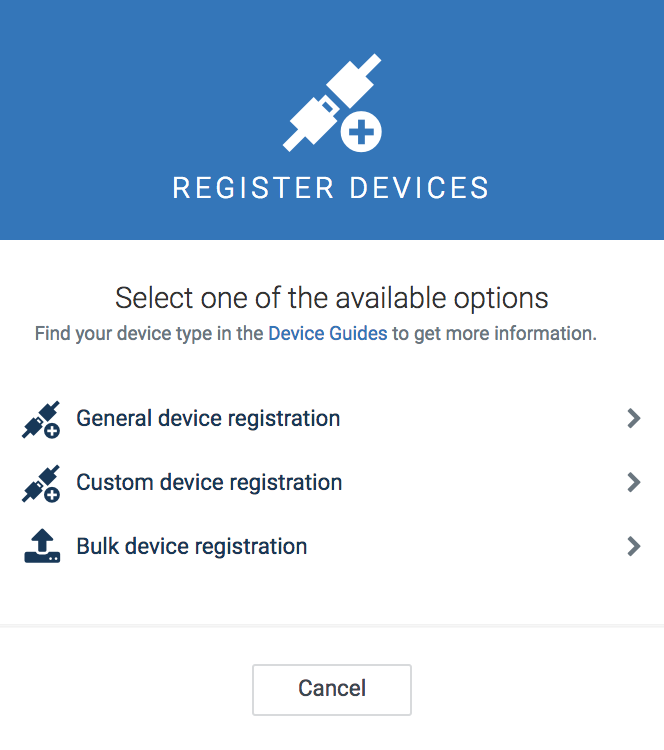
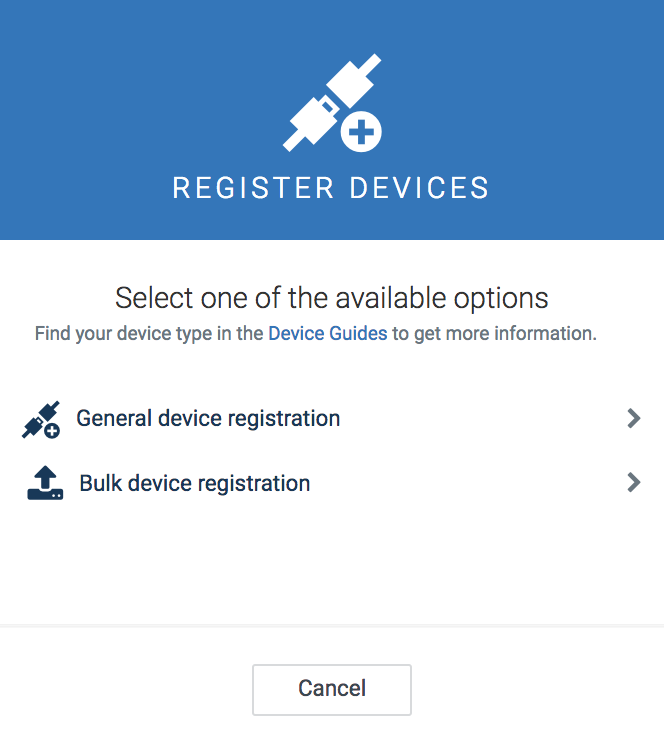
added one screenshot

diff --git a/src/render/guides/users-guide/device-management/connecting-devices.html.md b/src/render/guides/users-guide/device-management/connecting-devices.html.md
@@ -22,6 +22,9 @@ In the **Register devices** dialog, you may choose one of the following options:
 If you are subscribed to the required applications you will see a third option
 **Custom device registration** for registering devices of specific types, e.g. LoRa or Sigfox, see the documentation for these optional services for details. 
 
+<img src="/guides/images/users-guide/DeviceManagement/devmgmt-register-devices-custom.png" alt="Register devices" style="max-width: 50%">
+
+
 ### <a name="device-registration-manually"></a>Connecting devices manually
 
 The following process describes how to connect devices manually. Depending on the type of device you want to connect, not all steps of the process may be relevant. 
